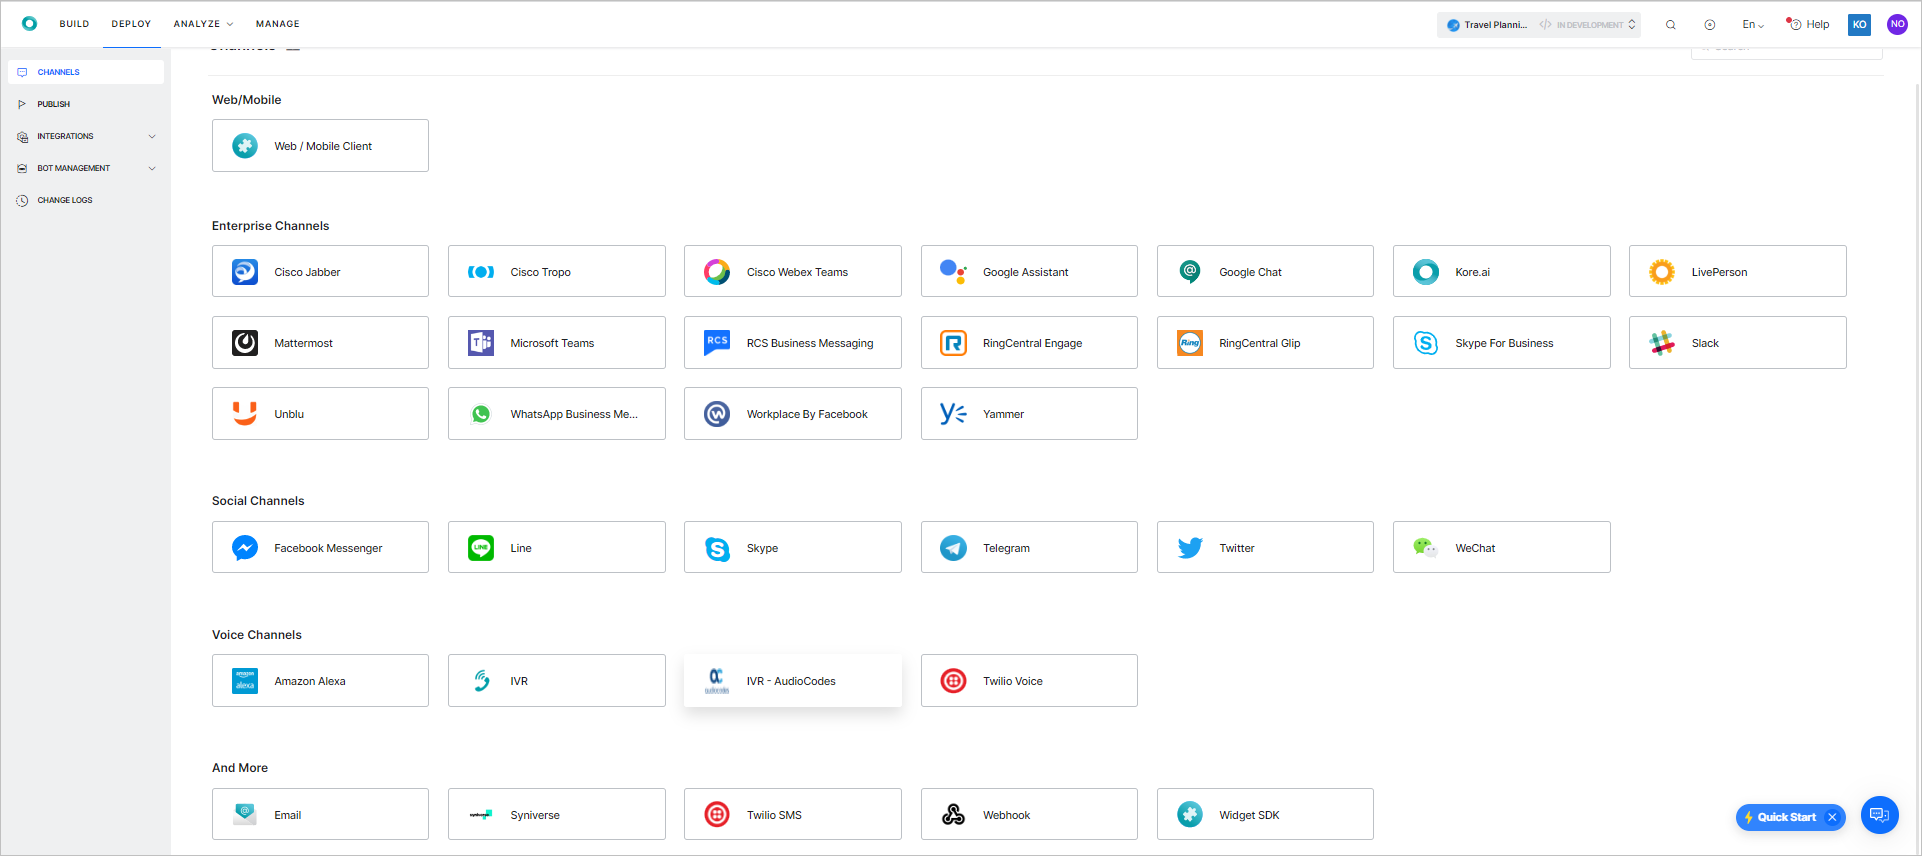
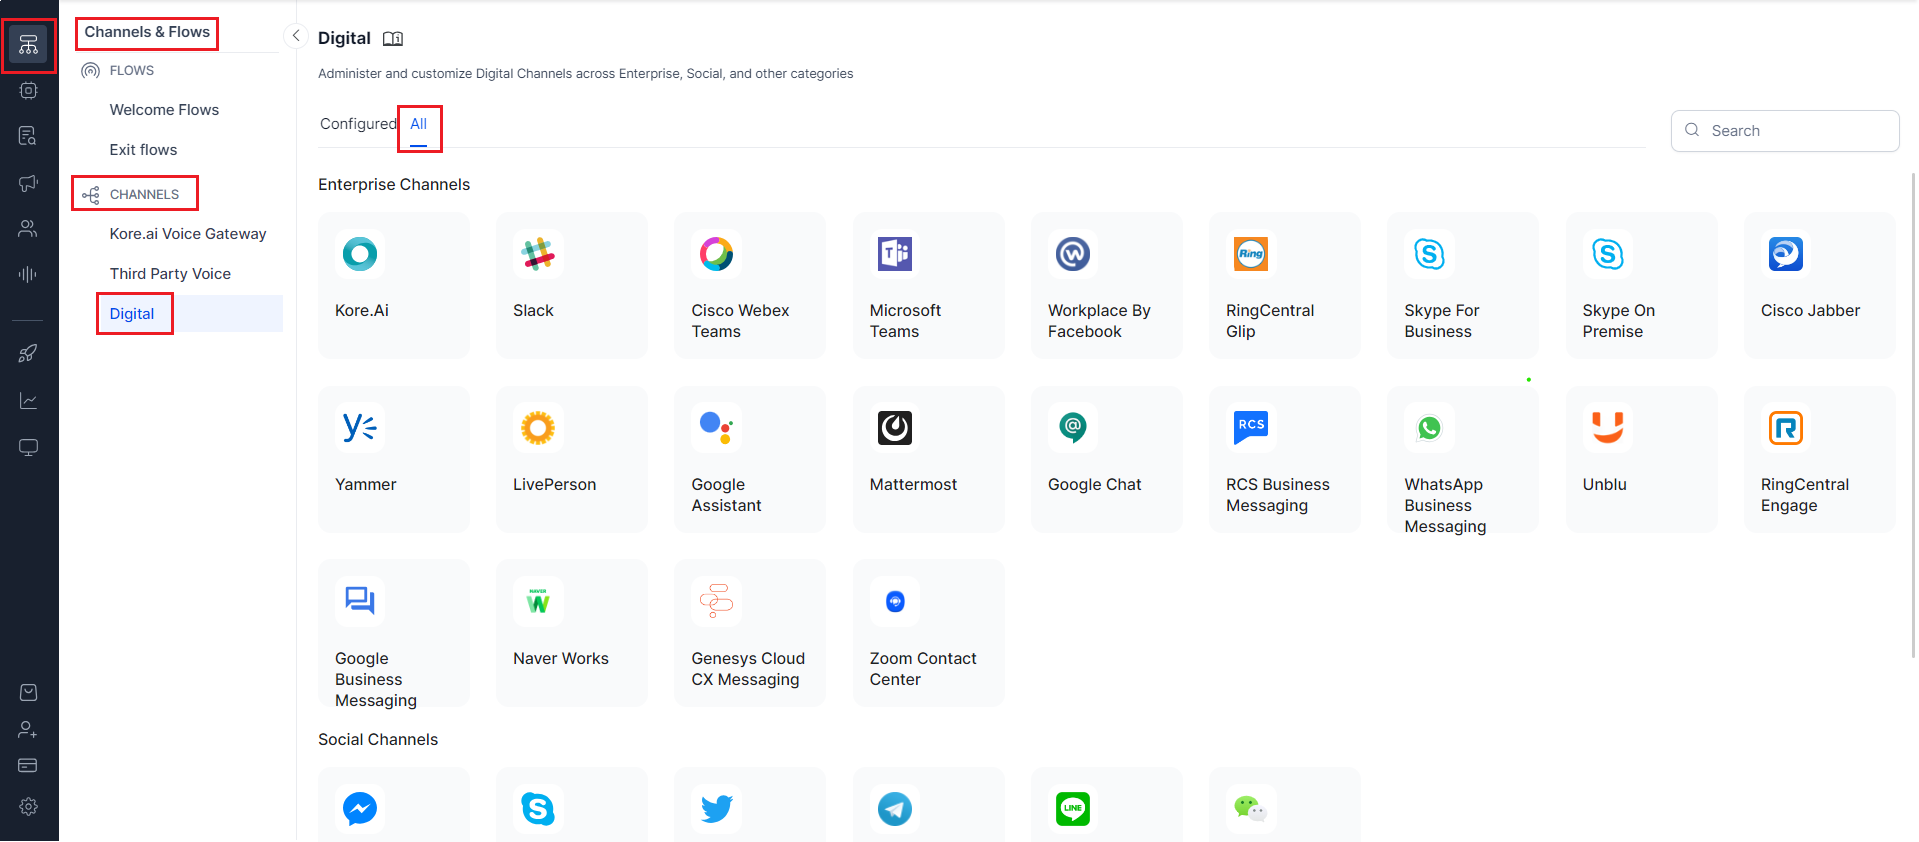
channel enablement images

diff --git a/docs/xo/channels/adding-channels-to-your-bot.md b/docs/xo/channels/adding-channels-to-your-bot.md
@@ -2,7 +2,7 @@
 
 By default, your Virtual Assistant is not available to users unless you define one or more channels through which it can communicate. So, after creating a Virtual Assistant, you can add delivery channels that end-users can use to access and interact with it when deployed. For example, you can enable your assistant for use in the Kore.ai Messaging application, or allow interaction with your VA through an email address or a _Twilio_ SMS account. You can also enable your VA in third-party applications such as _Facebook_ or _Slack_. This topic describes how to add one or more delivery channels to your VA.
 
-You can add channels to your VA from the **Channels & Flows** > **Channels** > **Digital** > **All** section. Channels supported by the Kore.ai XO Platform are categorized based upon their functionality and usage.
+You can add channels to your VA from the **Channels & Flows > Channels > Digital > All** section. Channels supported by the Kore.ai XO Platform are categorized based upon their functionality and usage.
 
 <img src="../images/channel-enablement-img1-channels-list.png" alt="Channels supported by the Kore.ai XO Platform" title="Channels supported by the Kore.ai XO Platform" style="border: 1px solid gray; zoom:70%;">
 

diff --git a/docs/xo/manage-assistant/bot-management.md b/docs/xo/manage-assistant/bot-management.md
@@ -74,12 +74,7 @@ To import a Virtual Assistant, follow these steps:
 4. On the Import & Export page select the **Import** tab.
 5. Click the **Choose File** buttons next to the **Bot Definition File** field and **Bot Config File** field, and upload the _botDefinition.json_ and _config.json_ files respectively.
 6. Optionally, upload the custom script file from the imported assistant if any. 
-[ ](https://kore-wordpress.s3.us-east-2.amazonaws.com/developer.kore.ai/wp-content/uploads/20221003065802/fullimport.png)
-
-
-
-
-    ![alt_text](images/bm(3).png "image_tooltip")
+<    <img src="../images/bot-import-custom-script-file.png" alt="App import - Custom script file" title="App import - Custom script file" style="border:1px solid gray; zoom:70%;">
 
 7. Select one of these import options: **Full Import** or **Incremental Import**.
 8. If you select **Full import**, the bot definition in the in-development copy will be overwritten with the definition present in the import file.
